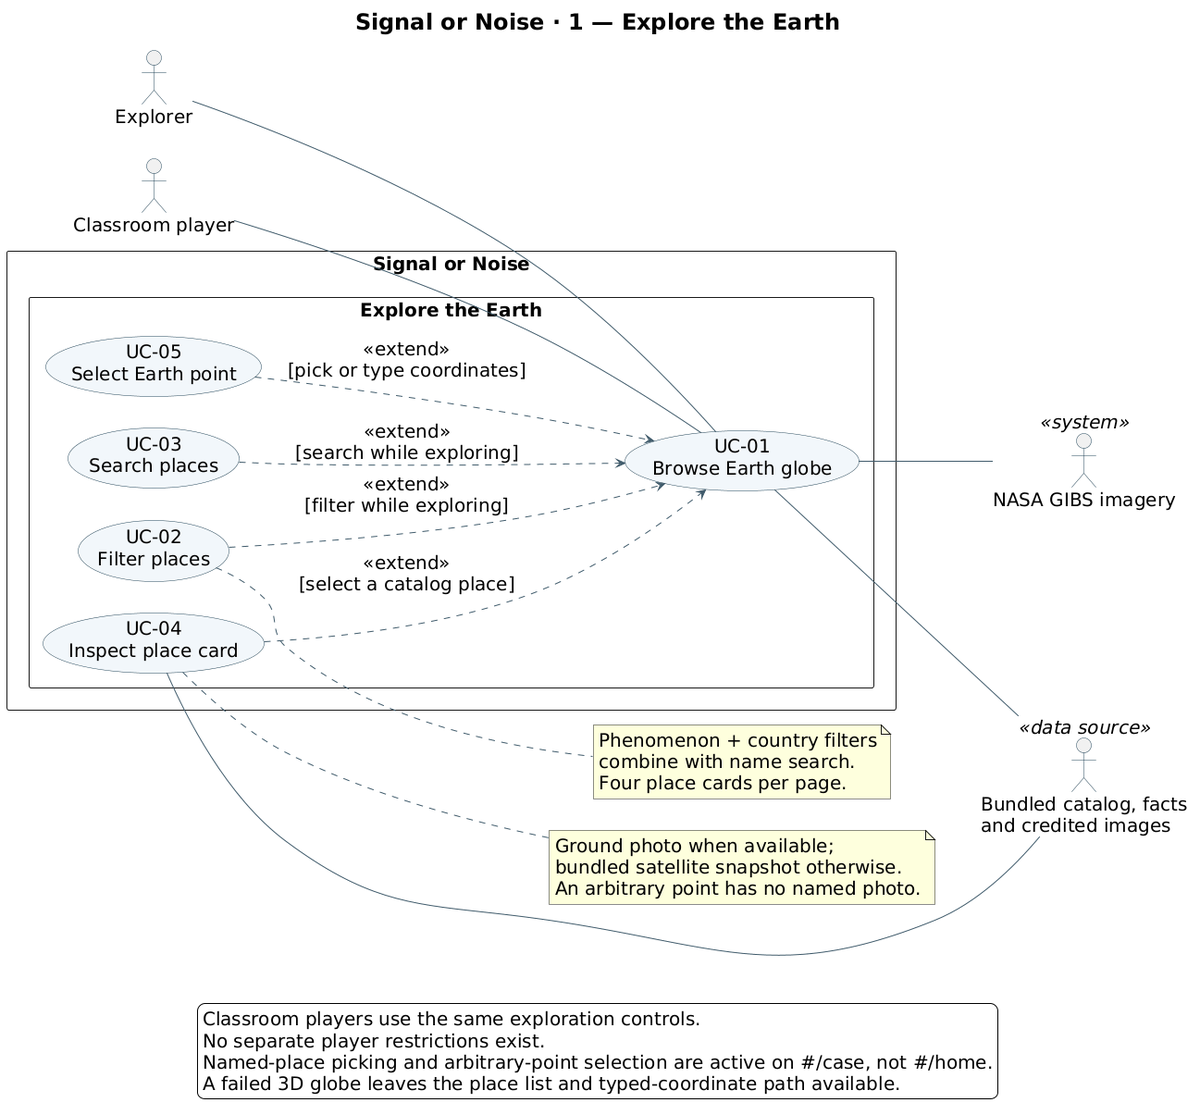
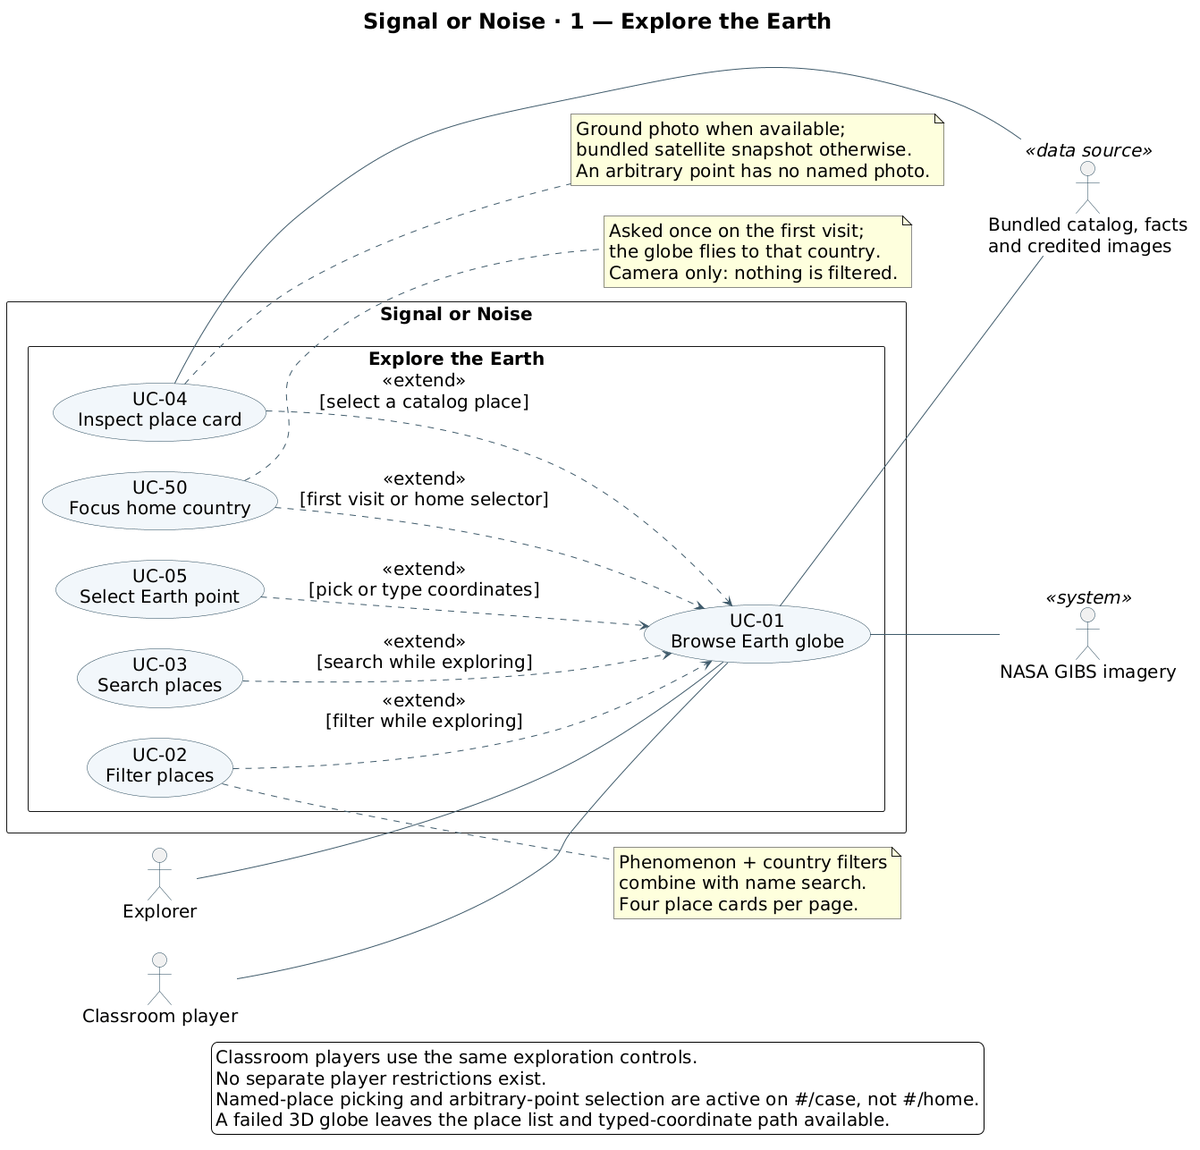
Diagramas de casos de uso: idiomas, pais inicial, panel de autor y aula con Firebase

diff --git a/docs/diagrams/USE_CASES.md b/docs/diagrams/USE_CASES.md
@@ -686,3 +686,14 @@ The following distinguish observed source behavior from matters requiring runtim
 | G-21 | **Resolved during the follow-up: lunar explanatory text is now restored.** Informational cases still hide the extra note until a quiz answer, but opening/running a testable case explicitly shows it. | `openLunarCase()` restoration at [main.js:1019](../../main.js#L1019), lunar-run restoration at [main.js:1038](../../main.js#L1038), quiz restoration at [main.js:984](../../main.js#L984). The previous hidden-test-explanation sequence is no longer supported by this source snapshot. Browser confirmation remains outside this lane. |
 
 No account registration, named profiles, chat/AI assistant, teacher-created missions, session closing, user-selectable backend, free-form hunch, custom date-window selector, always-available forecast, live NOAA tide retrieval, or annual-series Moon-discovery analysis was found in the inspected implementation. These must not be presented as current use cases. Browser behavior, deployed services and scientific validity beyond the implemented checks remain outside this static documentation review.
+
+
+## Update · 15 November 2026
+
+| ID | Use case | Actor | What happens |
+|---|---|---|---|
+| UC-49 | Choose language | Explorer, classroom player | A selector next to the Earth/Moon switch offers English, Español, Português, Français, Русский and 中文. The first language comes from `?lang=`, then the saved choice, then the browser language. Changing it never restarts a case, quiz or room. Translations are static, hand-written dictionaries (`i18n_dictionary.js`); no AI or machine translation runs in the app. |
+| UC-50 | Set home country | Explorer | On the first visit a dialog asks "Where are you from?". The globe flies to that country; the answer is saved and can be changed with "Focus on a country" on the home sheet. It only moves the camera: places are never filtered. Players who join a room through a QR link are not asked. |
+| UC-51 | Read author information | Explorer | "Information" in the brand bar opens the author panel: name, Computer Science, data analysis, previous hackathons, LinkedIn and e-mail links. |
+
+Changed: classroom rooms (UC-42 to UC-48) now use the configured Firebase project (Firestore + anonymous sign-in), so players join from their own phones; the same-browser local mode remains only as a fallback.
